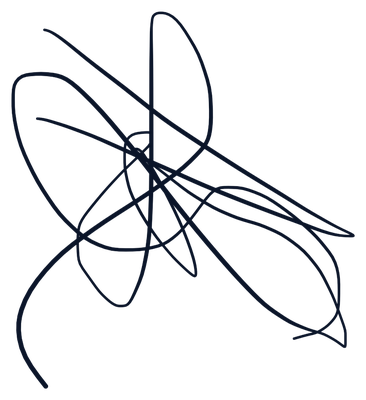
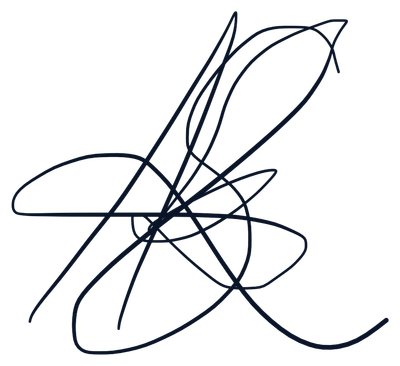
PDF podpisni blok: samo Aljaž Skornšek, podpis zavrten 90° CCW

diff --git a/api/_pdf/porocilo.js b/api/_pdf/porocilo.js
@@ -226,10 +226,8 @@ export async function zgradiPdf({ porocilo, ime, language = 'sl', reportUrl = ''
     if (fs.existsSync(PODPIS)) { doc.image(PODPIS, L, sy + 14, { height: 44 }); sigBottom = sy + 62 }
   } catch {}
   const nameY = sigBottom + 6
-  doc.font(F.serifB).fontSize(11).fillColor(NAVY).text('Igor Skornšek', L, nameY, { lineBreak: false })
-  doc.font(F.serifB).fontSize(11).fillColor(NAVY).text('Aljaž Skornšek', L + 220, nameY, { lineBreak: false })
-  doc.font(F.sans).fontSize(8).fillColor(MUTE).text(`${t.role1} · +386 41 661 362`, L, nameY + 17, { lineBreak: false })
-  doc.font(F.sans).fontSize(8).fillColor(MUTE).text(`${t.role2} · +386 31 544 416`, L + 220, nameY + 17, { lineBreak: false })
+  doc.font(F.serifB).fontSize(11).fillColor(NAVY).text('Aljaž Skornšek', L, nameY, { lineBreak: false })
+  doc.font(F.sans).fontSize(8).fillColor(MUTE).text(`${t.role2} · +386 31 544 416`, L, nameY + 17, { lineBreak: false })
   if (reportUrl) {
     doc.font(F.sans).fontSize(8).fillColor(GOLD).text(reportUrl, L, nameY + 40, { link: reportUrl, width: CW - 90 })
   }
